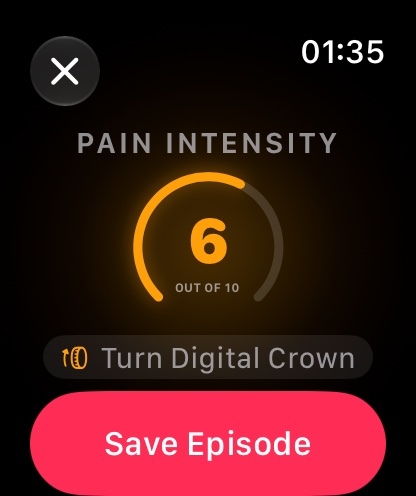
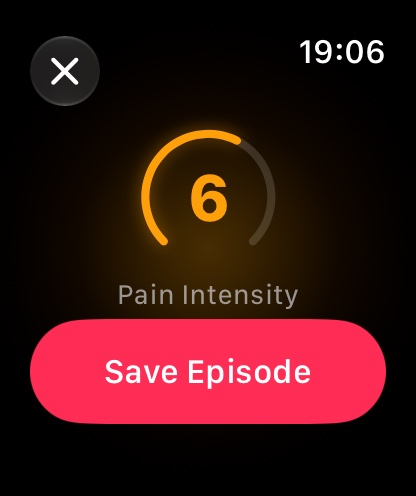
Retake the Apple Watch screenshots of the user journey report for the compact layout
The app screens of steps 1, 8 and 9 come from a separate unpaired watch with a copy of the paired watch data, so the new log did not reach the iPhone. The corner complication and the Smart Stack shots did not change and stay as they were.

diff --git a/docs/user-journey/index.html b/docs/user-journey/index.html
@@ -164,10 +164,10 @@ dialog p { color: #f4f1f2; text-align: center; font-size: 14px; margin-top: 10px
 
 <main class="page">
   <header class="intro">
-    <span class="eyebrow">Сквозной тест · 4 октября 2026 · дополнен 11 октября</span>
+    <span class="eyebrow">Сквозной тест · 4 октября 2026 · дополнен 11 и 13 октября</span>
     <h1>Путь пользователя <em>MigraTrack</em> на iPhone и Apple Watch</h1>
     <p>Тест начался с чистой установки на обоих устройствах. Пользователь проходит онбординг, логирует приступы на iPhone и на часах, открывает логгер часов с циферблата и из Smart Stack, смотрит аналитику и экспортирует отчёт. После каждого действия я проверял базу SQLite на обоих устройствах. Шаги 16–21 добавил второй прогон: календарь Insights, правка приступа и лог в прошлый день. Нажмите на снимок, чтобы увеличить его.</p>
-    <p>11 октября приложение на часах получило новый дизайн из трёх экранов. Шаги часов 1, 8–11 и 21 я переснял на новой версии и на данных второго прогона. Поэтому числа на часах отличаются от чисел в шагах iPhone.</p>
+    <p>11 октября приложение на часах получило новый дизайн из трёх экранов. Шаги часов 1, 8–11 и 21 я переснял на новой версии и на данных второго прогона. Поэтому числа на часах отличаются от чисел в шагах iPhone. 13 октября экраны часов стали компактнее: на каждом экране только кольцо, шкала или галочка одного размера и кнопка. Снимки приложения и циферблата в шагах 1 и 8–11 и снимок шага 21 пересняты на этой версии.</p>
     <div class="facts">
       <div class="fact"><b class="ok">21 из 21</b><span>шага пройден, ошибок приложения нет</span></div>
       <div class="fact"><b>iPhone 18 Pro Max</b><span>симулятор, iOS 27.0</span></div>
@@ -210,12 +210,12 @@ dialog p { color: #f4f1f2; text-align: center; font-size: 14px; margin-top: 10px
       <div class="story">
         <span class="device watch">Apple Watch</span>
         <h2>Первый запуск часов, до связи с iPhone</h2>
-        <p>Приложение на часах ставится вместе с приложением на iPhone. Пока iPhone не прислал данные, кольцо показывает <strong>30 из 30 дней без боли</strong>. Под кольцом подсказка «Open MigraTrack on your iPhone to sync».</p>
+        <p>Приложение на часах ставится вместе с приложением на iPhone. Пока iPhone не прислал данные, кольцо показывает <strong>30</strong>: все 30 дней без боли. Под кольцом подсказка «Open MigraTrack on your iPhone to sync».</p>
         <p>Логировать уже можно. Без пресета iPhone экран Pain Intensity начинается с 7, интенсивности по умолчанию.</p>
         <p>Эти снимки я сделал на отдельном симуляторе часов без пары. Часы основной пары уже получили данные iPhone.</p>
       </div>
       <div class="shots">
-        <figure class="watch"><button class="shot" type="button"><img src="img/w01-watch-not-linked.jpg" alt="Главный экран часов: кольцо 30 из 30, подсказка Open MigraTrack on your iPhone to sync и кнопка Log Migraine" loading="lazy" width="416" height="496"></button><figcaption>Кольцо 30/30 и подсказка о связи</figcaption></figure>
+        <figure class="watch"><button class="shot" type="button"><img src="img/w01-watch-not-linked.jpg" alt="Главный экран часов: кольцо с числом 30, подсказка Open MigraTrack on your iPhone to sync и кнопка Log Migraine" loading="lazy" width="416" height="496"></button><figcaption>Кольцо 30 и подсказка о связи</figcaption></figure>
         <figure class="watch"><button class="shot" type="button"><img src="img/w02-watch-logger-default.jpg" alt="Pain Intensity 7 из 10 и кнопка Save Episode" loading="lazy" width="416" height="496"></button><figcaption>Без пресета: интенсивность 7</figcaption></figure>
       </div>
     </article>
@@ -316,11 +316,12 @@ dialog p { color: #f4f1f2; text-align: center; font-size: 14px; margin-top: 10px
       <div class="story">
         <span class="device watch">Apple Watch</span>
         <h2>Часы получают пресет и приступы</h2>
-        <p>iPhone отправляет на часы пресет и приступы за 60 дней через WatchConnectivity. Подсказка о связи исчезла. Под кольцом теперь счёт дней без боли: <strong>26 of 30 days pain-free</strong>.</p>
+        <p>iPhone отправляет на часы пресет и приступы за 60 дней через WatchConnectivity. Подсказка о связи исчезла. Кольцо показывает <strong>26</strong>: столько дней из последних 30 прошли без боли.</p>
         <p>Главный экран показывает только кольцо и кнопку Log Migraine. Строк «This month» и «Last attack» в новой версии нет.</p>
+        <p>Снимки этого шага и шага 9 я переснял 13 октября на отдельных часах без пары, с копией данных основной пары. Так новый лог не попал в данные iPhone.</p>
       </div>
       <div class="shots">
-        <figure class="watch"><button class="shot" type="button"><img src="img/w03-watch-linked.jpg" alt="Часы: кольцо 26 из 30, 26 of 30 days pain-free и кнопка Log Migraine" loading="lazy" width="416" height="496"></button><figcaption>Кольцо 26/30 с данными iPhone</figcaption></figure>
+        <figure class="watch"><button class="shot" type="button"><img src="img/w03-watch-linked.jpg" alt="Часы: кольцо с числом 26 и кнопка Log Migraine" loading="lazy" width="416" height="496"></button><figcaption>Кольцо 26 с данными iPhone</figcaption></figure>
       </div>
     </article>
 
@@ -330,14 +331,14 @@ dialog p { color: #f4f1f2; text-align: center; font-size: 14px; margin-top: 10px
         <span class="device watch">Apple Watch</span><span class="device phone">iPhone</span>
         <h2>Лог в приложении на часах</h2>
         <p>«Log Migraine» открывает экран Pain Intensity. Значение пришло из пресета iPhone (6), цвет шкалы следует тяжести. Его меняют колёсиком Digital Crown.</p>
-        <p>«Save Episode» сохраняет приступ. Тот же лист показывает Episode logged: интенсивность и препараты из профиля. «Done» возвращает на главный экран, и кольцо показывает <strong>25 из 30</strong>: 11 октября стал днём приступа.</p>
+        <p>«Save Episode» сохраняет приступ. Тот же лист показывает зелёную галочку. Приступ получает интенсивность и препараты из профиля. «Done» возвращает на главный экран, и кольцо показывает <strong>25</strong>: 11 октября стал днём приступа.</p>
         <p>Я логировал на часах дважды, в 01:25 и в 01:35. Карточка дня в календаре iPhone показывает оба приступа.</p>
         <div class="check">SQLite iPhone: <code>6 | App | Ibuprofen, Sumatriptan</code> в 01:25 и в 01:35, очередь часов <code>0</code></div>
       </div>
       <div class="shots">
-        <figure class="watch"><button class="shot" type="button"><img src="img/w04-watch-pain-intensity.jpg" alt="Pain Intensity 6 из 10, подсказка Turn Digital Crown и кнопка Save Episode" loading="lazy" width="416" height="496"></button><figcaption>Пресет с iPhone: 6/10</figcaption></figure>
-        <figure class="watch"><button class="shot" type="button"><img src="img/w05-watch-episode-logged.jpg" alt="Episode logged: Intensity 6/10, Ibuprofen 400mg, Sumatriptan 50mg и кнопка Done" loading="lazy" width="416" height="496"></button><figcaption>Episode logged: интенсивность и препараты</figcaption></figure>
-        <figure class="watch"><button class="shot" type="button"><img src="img/w06-watch-after-log.jpg" alt="Часы: кольцо 25 из 30 после лога" loading="lazy" width="416" height="496"></button><figcaption>После лога: 25/30</figcaption></figure>
+        <figure class="watch"><button class="shot" type="button"><img src="img/w04-watch-pain-intensity.jpg" alt="Шкала Pain Intensity с числом 6 и кнопка Save Episode" loading="lazy" width="416" height="496"></button><figcaption>Пресет с iPhone: 6/10</figcaption></figure>
+        <figure class="watch"><button class="shot" type="button"><img src="img/w05-watch-episode-logged.jpg" alt="Episode logged: зелёная галочка и кнопка Done" loading="lazy" width="416" height="496"></button><figcaption>Episode logged: галочка</figcaption></figure>
+        <figure class="watch"><button class="shot" type="button"><img src="img/w06-watch-after-log.jpg" alt="Часы: кольцо с числом 25 после лога" loading="lazy" width="416" height="496"></button><figcaption>После лога: 25</figcaption></figure>
         <figure><button class="shot" type="button"><img src="img/p49-watch-episodes-on-iphone.jpg" alt="Календарь iPhone: Sunday, Oct 11, 2 episodes, пик 6 из 10, Ibuprofen 400mg и Sumatriptan 50mg" loading="lazy" width="560" height="1216"></button><figcaption>iPhone: 11 октября, 2 приступа с часов</figcaption></figure>
       </div>
     </article>
@@ -540,7 +541,7 @@ dialog p { color: #f4f1f2; text-align: center; font-size: 14px; margin-top: 10px
         <div class="check">SQLite часов, как на iPhone: <code>sample-18 | 2026-09-15 08:48</code> и <code>2026-10-06 10:31 | 6 | QuickLog</code></div>
       </div>
       <div class="shots">
-        <figure class="watch"><button class="shot" type="button"><img src="img/w15-watch-after-phone-edit.jpg" alt="Часы: кольцо 25 из 30, 25 of 30 days pain-free" loading="lazy" width="416" height="496"></button><figcaption>Часы: 25/30</figcaption></figure>
+        <figure class="watch"><button class="shot" type="button"><img src="img/w15-watch-after-phone-edit.jpg" alt="Часы: кольцо с числом 25" loading="lazy" width="416" height="496"></button><figcaption>Часы: 25</figcaption></figure>
         <figure><button class="shot" type="button"><img src="img/p50-summary-after-phone-edit.jpg" alt="Summary на iPhone: Pain-Free 25 из 30 дней, Last Event Oct 11, Intensity 6/10" loading="lazy" width="560" height="1216"></button><figcaption>iPhone: Pain-Free 25/30d</figcaption></figure>
       </div>
     </article>
